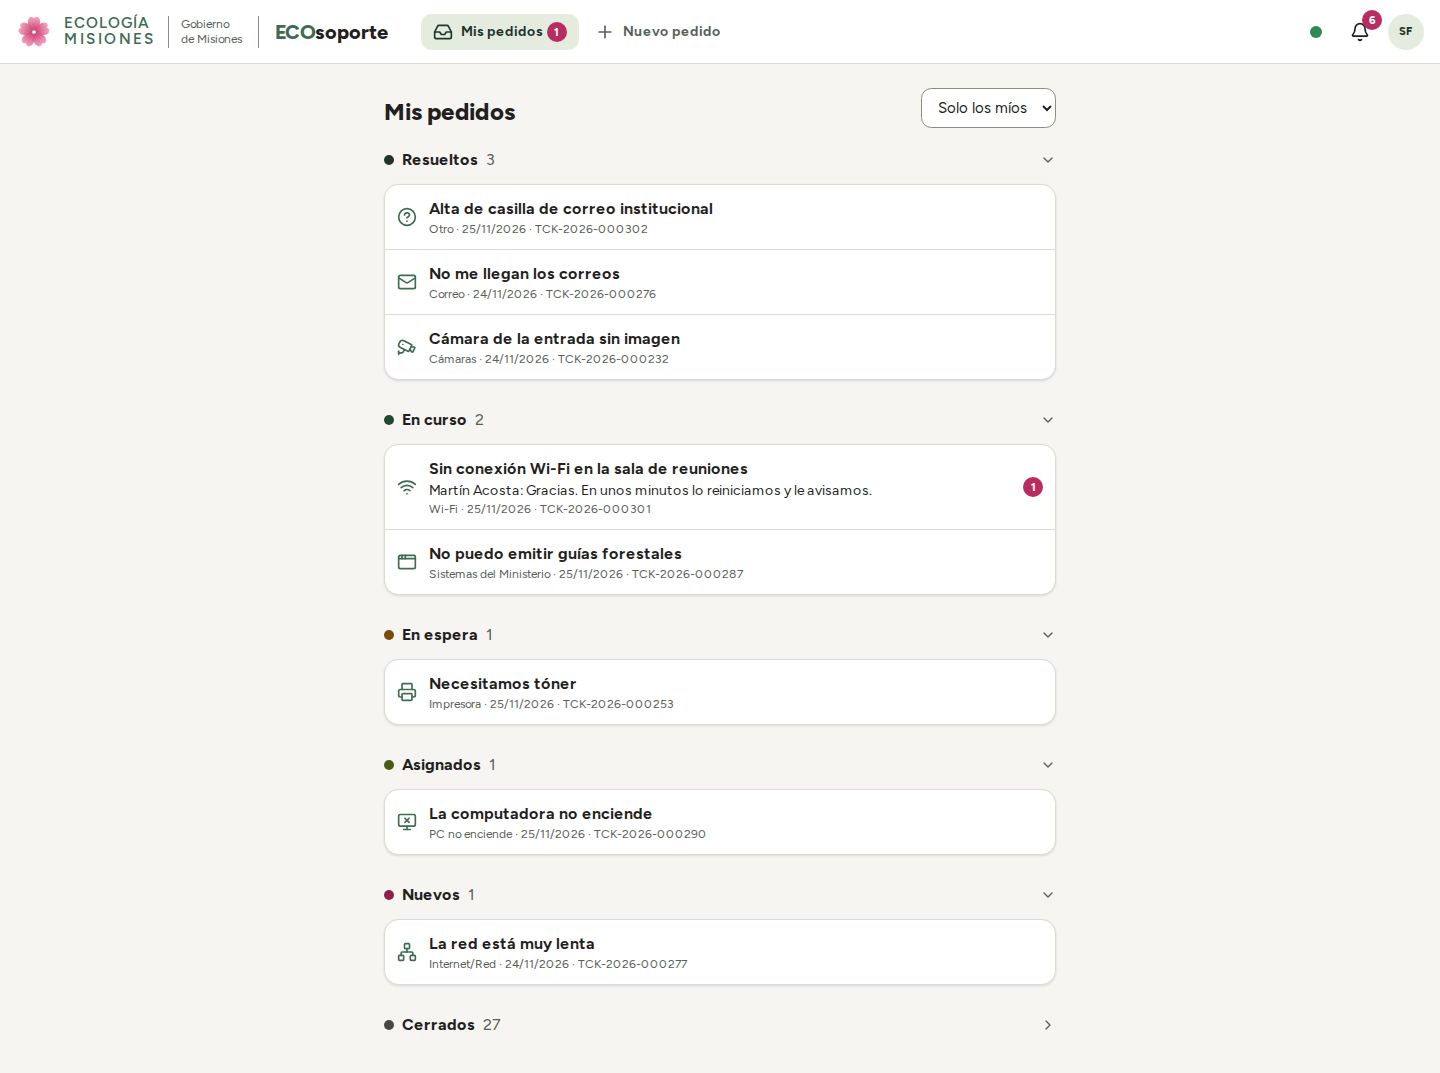
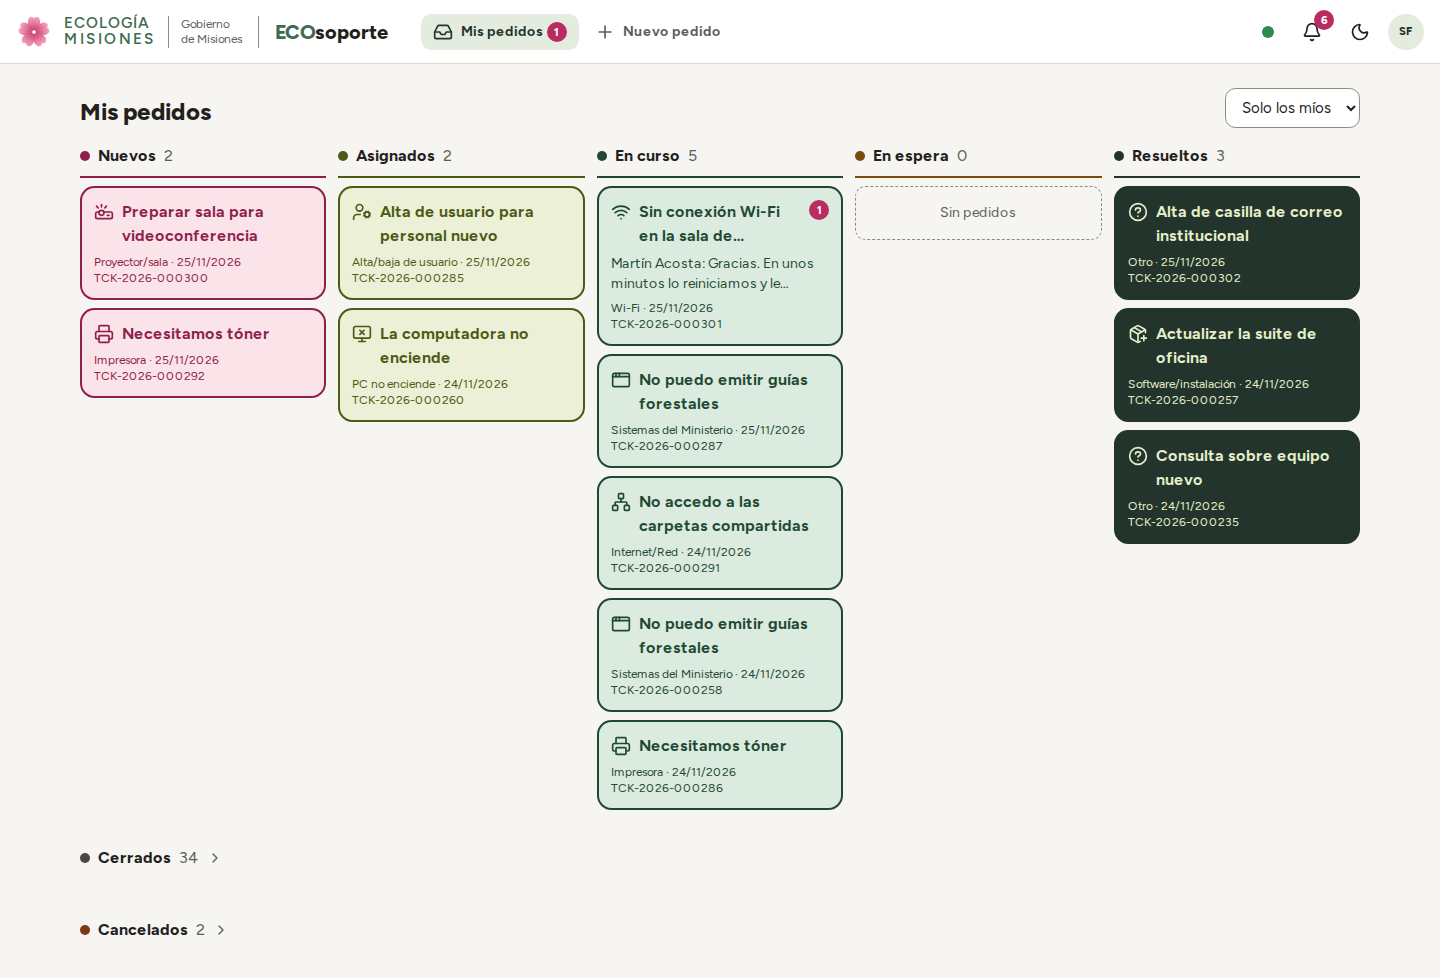
feat: mis pedidos en columnas con color por estado y botón de tema en la cabecera

diff --git a/apps/web/src/rutas/solicitante/MisPedidos.tsx b/apps/web/src/rutas/solicitante/MisPedidos.tsx
@@ -14,16 +14,18 @@ import { useCatalogo, useUsuario } from '../../lib/hooks';
 
 const ruta = getRouteApi('/app/mis-pedidos');
 
-/** Orden de las secciones: primero lo que espera algo de la persona, al final lo terminado. */
+/** Columnas en el orden en que avanza un pedido. Lo terminado va abajo, plegado. */
 const SECCIONES: readonly { estado: Estado; titulo: string; plegada?: boolean }[] = [
-  { estado: 'resuelto', titulo: 'Resueltos' },
+  { estado: 'nuevo', titulo: 'Nuevos' },
+  { estado: 'asignado', titulo: 'Asignados' },
   { estado: 'en_curso', titulo: 'En curso' },
   { estado: 'en_espera', titulo: 'En espera' },
-  { estado: 'asignado', titulo: 'Asignados' },
-  { estado: 'nuevo', titulo: 'Nuevos' },
+  { estado: 'resuelto', titulo: 'Resueltos' },
   { estado: 'cerrado', titulo: 'Cerrados', plegada: true },
   { estado: 'cancelado', titulo: 'Cancelados', plegada: true },
 ];
+/** El resuelto usa fondo oscuro y texto claro: como color de marco o punto sirve su fondo. */
+const acentoEstado = (e: Estado) => `var(--estado-${e}-${e === 'resuelto' ? 'fondo' : 'texto'})`;
 const INICIALES = 5;
 const PASO = 20;
 const MAXIMO = 500;
@@ -55,7 +57,7 @@ export function MisPedidos() {
   const vacio = consultas.every((c) => c.data?.total === 0);
 
   return (
-    <div className="mx-auto max-w-2xl">
+    <div className="mx-auto max-w-7xl">
       <Encabezado
         titulo="Mis pedidos"
         acciones={
@@ -84,37 +86,54 @@ export function MisPedidos() {
           </Link>
         </EstadoVacio>
       ) : (
-        <div className="flex flex-col gap-6">
-          {SECCIONES.map(({ estado, titulo, plegada }, i) => {
-            const datos = consultas[i]!.data!;
-            if (!datos.total) return null;
-            return (
-              <Seccion key={estado} estado={estado} titulo={titulo} total={datos.total} plegada={plegada}>
-                <ul className="tarjeta divide-y divide-borde overflow-hidden">
-                  {datos.items.map((t) => (
-                    <li key={t.id}>
-                      <Pedido ticket={t} noLeidos={noLeidos?.[t.id] ?? 0} mostrarSolicitante={area} />
-                    </li>
-                  ))}
-                </ul>
-                {datos.total > datos.items.length && datos.items.length < MAXIMO && (
-                  <Boton
-                    variante="fantasma"
-                    tamano="sm"
-                    className="mt-1 w-full"
-                    ocupado={consultas[i]!.isFetching}
-                    onClick={() => setCuantos((c) => ({ ...c, [estado]: Math.min((c[estado] ?? INICIALES) + PASO, MAXIMO) }))}
-                  >
-                    Ver más ({datos.total - datos.items.length})
-                  </Boton>
-                )}
-              </Seccion>
-            );
-          })}
+        <div className="flex flex-col gap-8">
+          <div className="grid items-start gap-5 md:grid-cols-3 md:gap-3 xl:grid-cols-5">
+            {SECCIONES.map((x, i) => !x.plegada && columna(x, i))}
+          </div>
+          {SECCIONES.map((x, i) => x.plegada && columna(x, i))}
         </div>
       )}
     </div>
   );
+
+  function columna({ estado, titulo, plegada }: (typeof SECCIONES)[number], i: number) {
+    const datos = consultas[i]!.data!;
+    if (!datos.total && plegada) return null;
+    return (
+      <Seccion
+        key={estado}
+        estado={estado}
+        titulo={titulo}
+        total={datos.total}
+        plegada={plegada}
+        // En el celular las columnas se apilan: las vacías no ocupan lugar.
+        className={datos.total ? undefined : 'max-md:hidden'}
+      >
+        {datos.total ? (
+          <ul className={cn('grid gap-2', plegada && 'md:grid-cols-3 xl:grid-cols-5')}>
+            {datos.items.map((t) => (
+              <li key={t.id} className="flex">
+                <Pedido ticket={t} noLeidos={noLeidos?.[t.id] ?? 0} mostrarSolicitante={area} />
+              </li>
+            ))}
+          </ul>
+        ) : (
+          <p className="rounded-md border border-dashed border-borde-fuerte p-4 text-center text-sm text-suave">Sin pedidos</p>
+        )}
+        {datos.total > datos.items.length && datos.items.length < MAXIMO && (
+          <Boton
+            variante="fantasma"
+            tamano="sm"
+            className="mt-1 w-full"
+            ocupado={consultas[i]!.isFetching}
+            onClick={() => setCuantos((c) => ({ ...c, [estado]: Math.min((c[estado] ?? INICIALES) + PASO, MAXIMO) }))}
+          >
+            Ver más ({datos.total - datos.items.length})
+          </Boton>
+        )}
+      </Seccion>
+    );
+  }
 }
 
 function Seccion(p: {
@@ -122,30 +141,37 @@ function Seccion(p: {
   titulo: string;
   total: number;
   plegada?: boolean;
+  className?: string;
   children: React.ReactNode;
 }) {
   const [abierta, setAbierta] = useState(!p.plegada);
   const id = `seccion-${p.estado}`;
+  const rotulo = (
+    <>
+      <span aria-hidden className="size-2.5 rounded-full" style={{ background: acentoEstado(p.estado) }} />
+      {p.titulo}
+      <span className="font-normal text-suave">{p.total}</span>
+    </>
+  );
   return (
-    <section data-testid={id} aria-labelledby={`${id}-titulo`}>
+    <section data-testid={id} aria-labelledby={`${id}-titulo`} className={cn('min-w-0', p.className)}>
       <h2 id={`${id}-titulo`} className="mb-2 text-base">
-        <button
-          type="button"
-          className="flex w-full items-center gap-2 rounded-md py-1 text-left"
-          aria-expanded={abierta}
-          aria-controls={`${id}-lista`}
-          onClick={() => setAbierta(!abierta)}
-        >
-          <span
-            aria-hidden
-            className="size-2.5 rounded-full"
-            // El resuelto usa fondo oscuro y texto claro: para el punto sirve el fondo.
-            style={{ background: `var(--estado-${p.estado}-${p.estado === 'resuelto' ? 'fondo' : 'texto'})` }}
-          />
-          {p.titulo}
-          <span className="font-normal text-suave">{p.total}</span>
-          <ChevronDown aria-hidden className={cn('ml-auto size-4 text-suave', !abierta && '-rotate-90')} />
-        </button>
+        {p.plegada ? (
+          <button
+            type="button"
+            className="flex w-full items-center gap-2 rounded-md py-1 text-left"
+            aria-expanded={abierta}
+            aria-controls={`${id}-lista`}
+            onClick={() => setAbierta(!abierta)}
+          >
+            {rotulo}
+            <ChevronDown aria-hidden className={cn('size-4 text-suave', !abierta && '-rotate-90')} />
+          </button>
+        ) : (
+          <span className="flex items-center gap-2 border-b-2 pb-2" style={{ borderColor: acentoEstado(p.estado) }}>
+            {rotulo}
+          </span>
+        )}
       </h2>
       <div id={`${id}-lista`} hidden={!abierta}>
         {p.children}
@@ -160,22 +186,31 @@ function Pedido({ ticket: t, noLeidos, mostrarSolicitante }: { ticket: TicketRes
       to="/tickets/$id"
       params={{ id: t.codigo }}
       data-testid={`tarjeta-${t.codigo}`}
-      className="flex items-center gap-3 p-3 hover:bg-superficie-2"
+      className="flex w-full min-w-0 flex-col gap-1.5 rounded-lg border-2 p-3 shadow-sm transition-shadow hover:shadow-md"
+      // Pares fondo/texto de cada estado: contraste AA verificado en tokens.css.
+      style={{
+        background: `var(--estado-${t.estado}-fondo)`,
+        color: `var(--estado-${t.estado}-texto)`,
+        borderColor: acentoEstado(t.estado),
+      }}
     >
-      <IconoCategoria nombre={t.categoriaIcono} className="size-5 shrink-0 text-primario" />
-      <span className="min-w-0 flex-1">
-        <span className={cn('block truncate font-semibold', noLeidos > 0 && 'font-bold')}>{t.titulo}</span>
-        {noLeidos > 0 && t.ultimoMensaje && (
-          <span className="block truncate text-sm">
-            {t.ultimoMensaje.autorNombre}: {t.ultimoMensaje.extracto}
-          </span>
-        )}
-        <span className="block truncate text-xs text-suave">
-          {t.categoriaNombre} · {formatearFecha(t.actualizadoAt)} · {t.codigo}
+      <span className="flex items-start gap-2">
+        <IconoCategoria nombre={t.categoriaIcono} className="mt-0.5 size-5 shrink-0" />
+        <span className={cn('line-clamp-2 min-w-0 flex-1 font-semibold break-words', noLeidos > 0 && 'font-bold')}>{t.titulo}</span>
+        <Contador n={noLeidos} etiqueta="mensajes sin leer" />
+      </span>
+      {noLeidos > 0 && t.ultimoMensaje && (
+        <span className="line-clamp-2 text-sm break-words">
+          {t.ultimoMensaje.autorNombre}: {t.ultimoMensaje.extracto}
+        </span>
+      )}
+      <span className="text-xs">
+        {t.categoriaNombre} · {formatearFecha(t.actualizadoAt)}
+        <span className="block">
+          {t.codigo}
           {mostrarSolicitante ? ` · ${t.solicitante.nombre}` : ''}
         </span>
       </span>
-      <Contador n={noLeidos} etiqueta="mensajes sin leer" />
     </Link>
   );
 }

diff --git a/apps/web/src/rutas/app/Cabecera.tsx b/apps/web/src/rutas/app/Cabecera.tsx
@@ -1,7 +1,7 @@
 import { useState } from 'react';
 import { useMutation, useQuery, useQueryClient } from '@tanstack/react-query';
 import { Link } from '@tanstack/react-router';
-import { Bell, LogOut, MessageSquare, Settings } from 'lucide-react';
+import { Bell, LogOut, MessageSquare, Moon, Settings, Sun } from 'lucide-react';
 import { toast } from 'sonner';
 import { esStaff, ETIQUETA_ROL, formatearFechaHora, iniciales } from '@eco/shared/dominio';
 import type { UsuarioActual } from '@eco/shared/schemas';
@@ -116,6 +116,21 @@ export function Campana() {
         </div>
       )}
     </Panel>
+  );
+}
+
+export function SelectorTema() {
+  const oscuro = useAlmacen(preferencias, (p) => p.tema) === 'oscuro';
+  return (
+    <Boton
+      variante="fantasma"
+      tamano="icono"
+      aria-label={oscuro ? 'Usar tema claro' : 'Usar tema oscuro'}
+      title={oscuro ? 'Usar tema claro' : 'Usar tema oscuro'}
+      onClick={() => cambiarPreferencias({ tema: oscuro ? 'claro' : 'oscuro' })}
+    >
+      {oscuro ? <Sun aria-hidden className="size-5" /> : <Moon aria-hidden className="size-5" />}
+    </Boton>
   );
 }
 

diff --git a/apps/web/src/rutas/app/Armazon.tsx b/apps/web/src/rutas/app/Armazon.tsx
@@ -32,7 +32,7 @@ import { cn } from '../../lib/cn';
 import { qNoLeidos } from '../../lib/consultas';
 import { useCatalogo, useSala, useUsuario } from '../../lib/hooks';
 import { cambiarPreferencias, preferencias } from '../../lib/preferencias';
-import { Campana, Conexion, MenuUsuario, NoLeidosGlobal } from './Cabecera';
+import { Campana, Conexion, MenuUsuario, NoLeidosGlobal, SelectorTema } from './Cabecera';
 
 interface Item {
   to: '/mis-pedidos' | '/nuevo' | '/kanban' | '/lista' | '/tablero' | '/admin/categorias' | '/admin/usuarios' | '/admin/areas' | '/admin/configuracion' | '/admin/colas';
@@ -212,6 +212,7 @@ export function Armazon() {
           <Conexion />
           {staff && <NoLeidosGlobal />}
           <Campana />
+          <SelectorTema />
           <MenuUsuario usuario={usuario} />
         </div>
       </header>

diff --git a/docs/DECISIONES.md b/docs/DECISIONES.md
@@ -39,3 +39,4 @@
 | 35 | Notas internas: solo notificación en la app a staff, nunca correo | Mail a staff | Evitar fugas por reenvío |
 | 36 | En producción sin SMTP no se escribe ni envía correo (advertencia en log) | Escribir archivos | Contienen enlaces con token |
 | 37 | Empleados sin menú lateral (dos destinos en cabecera o barra inferior); «Mis pedidos» en secciones por estado, una consulta por estado; el tema pasa a Preferencias | Lista única paginada | Pedido del usuario: más simple y separado por estado |
+| 38 | «Mis pedidos» en columnas por estado (apiladas en el celular), tarjetas con marco y fondo del color del estado; botón de tema visible en la cabecera | Lista en secciones; tema solo en Preferencias | Ajustes pedidos por el usuario (reemplaza parte de la 37) |

diff --git a/apps/web/README.md b/apps/web/README.md
@@ -46,7 +46,7 @@ test/                     unitarios (caché, optimismo, kanban, formulario, API,
 
 | `data-testid` | Elemento | Atributos útiles |
 |---|---|---|
-| `seccion-<estado>` | Sección de «Mis pedidos» de un estado (solo si tiene pedidos) | |
+| `seccion-<estado>` | Columna o sección de «Mis pedidos» de un estado (las plegadas, solo si tienen pedidos) | |
 | `columna-<estado>` | Columna del kanban (`nuevo`, `asignado`, `en_curso`, `en_espera`, `resuelto`, `cerrado`) | `data-valida` durante un arrastre |
 | `tarjeta-<codigo>` | Tarjeta del kanban y fila de "Mis pedidos" | |
 | `avatar-tecnico-<id>` | Destino de asignación (`avatar-tecnico-ninguno` = sin asignar) | |
